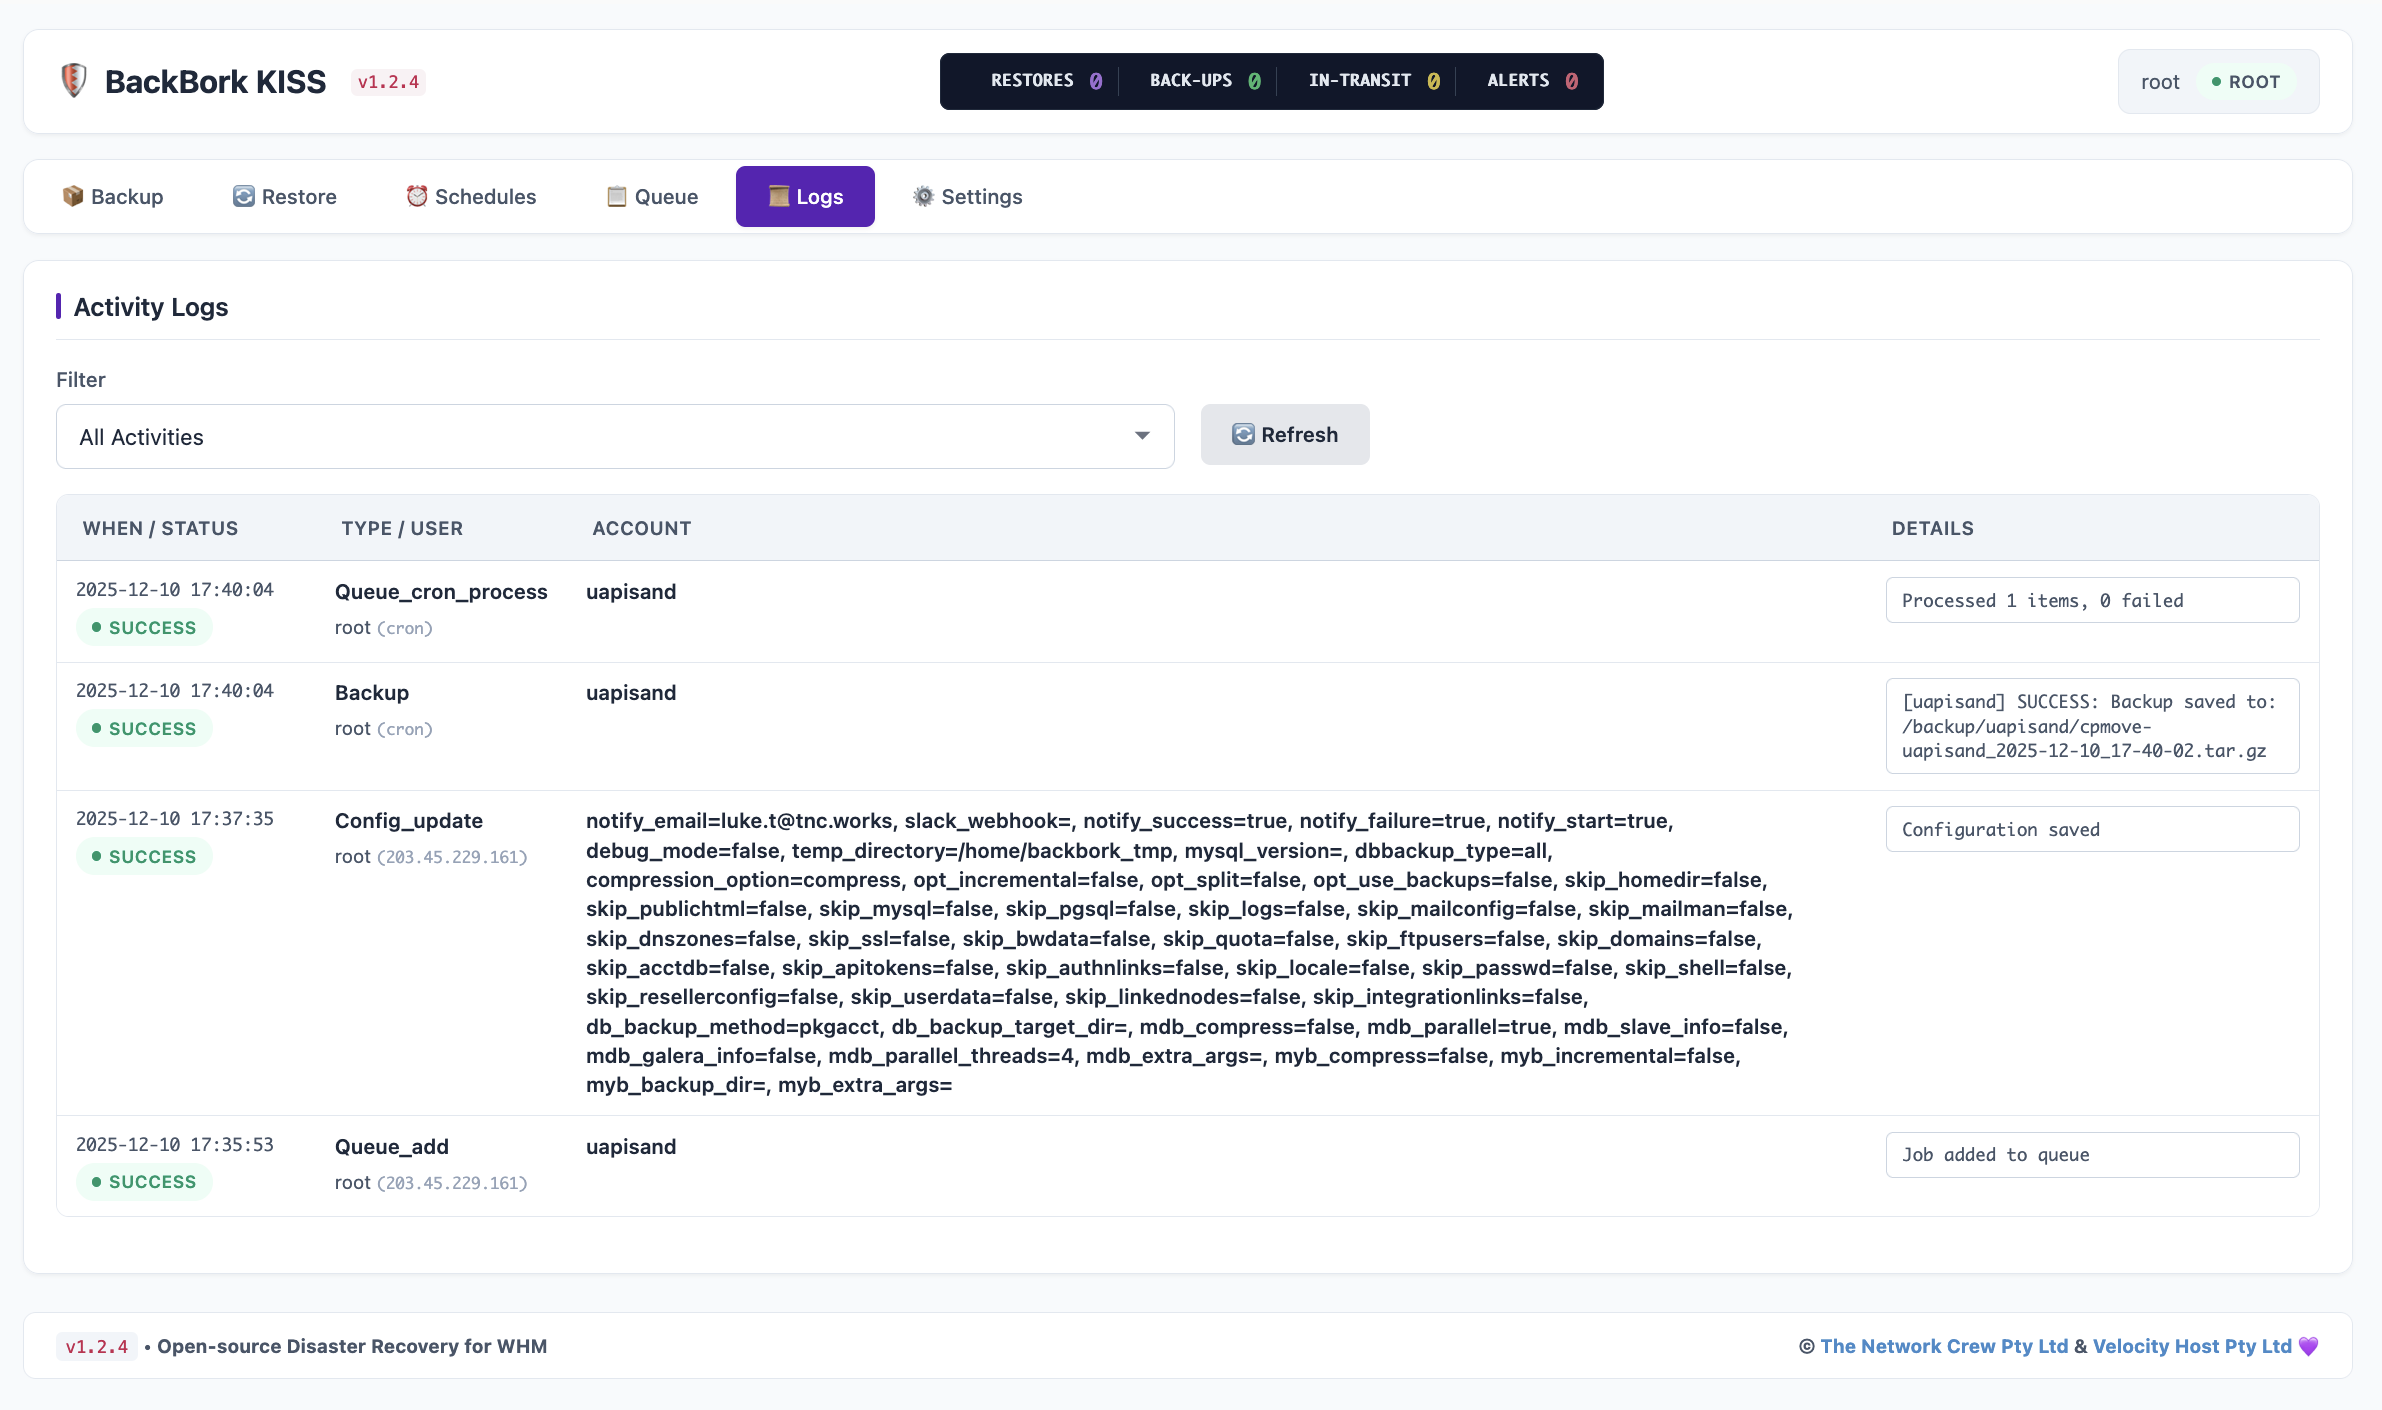
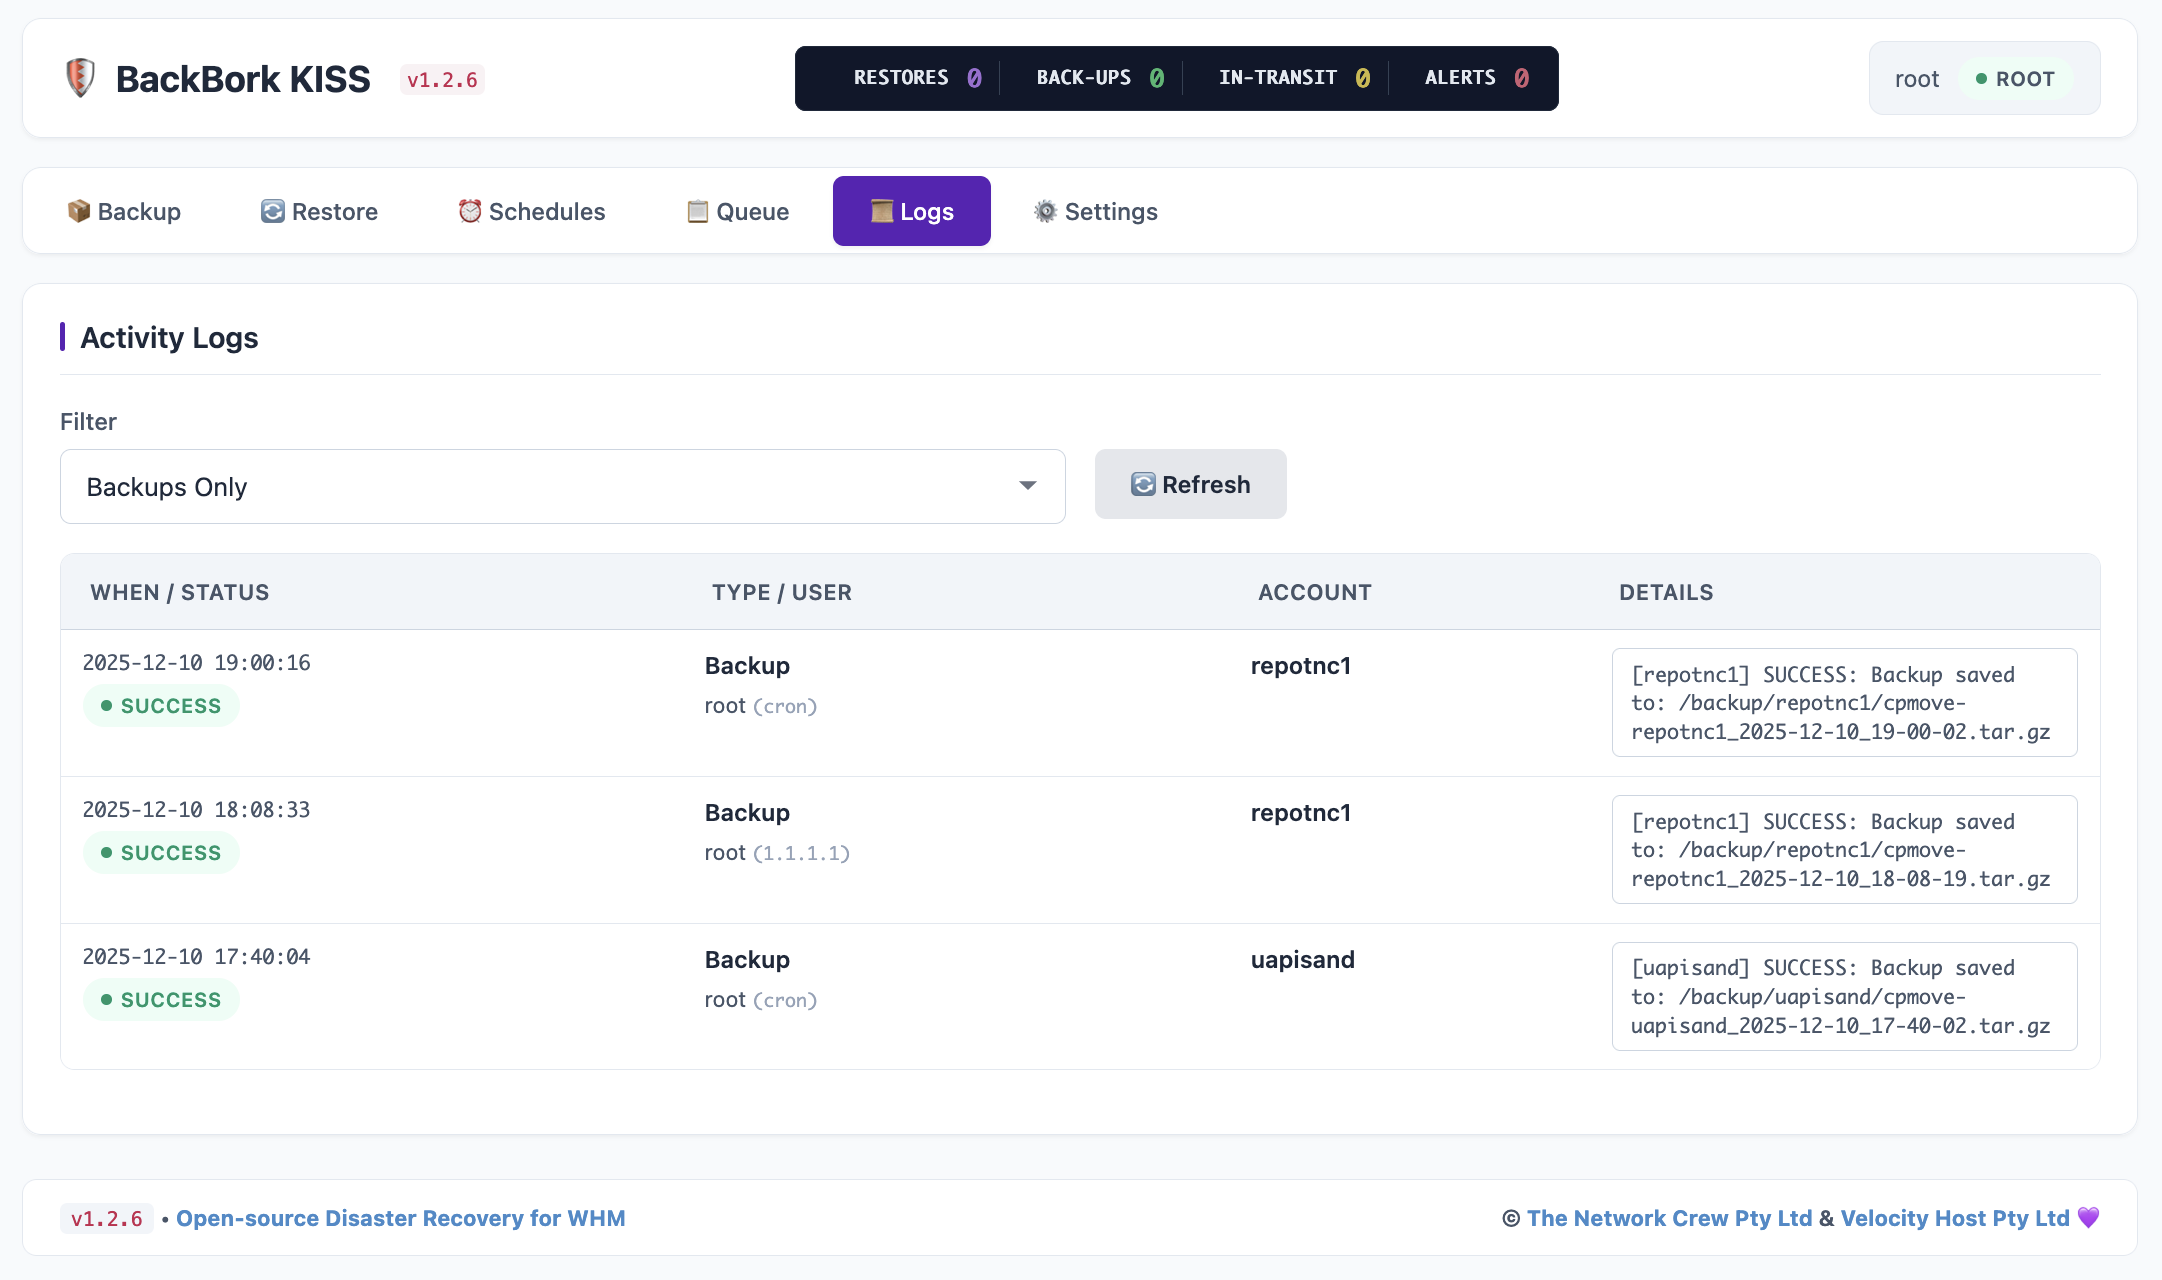
BackBork KISS v1.2.7-alpha
- filter backups by user access

diff --git a/usr/local/cpanel/whostmgr/docroot/cgi/backbork/engine/backup/BackupManager.php b/usr/local/cpanel/whostmgr/docroot/cgi/backbork/engine/backup/BackupManager.php
@@ -268,7 +268,7 @@ class BackBorkBackupManager {
      * Optionally filters by account name substring.
      * 
      * @param string $destinationId Destination ID from WHM transport config
-     * @param string $user User requesting (for permission checks)
+     * @param string $user User requesting (for permission filtering)
      * @param string $account Optional account filter (partial match)
      * @return array Result with success status and list of backup files
      */
@@ -288,6 +288,19 @@ class BackBorkBackupManager {
         // List all files at destination root
         $files = $transport->listFiles('', $destination);
 
+        // Security: Get list of accounts this user can access (for filtering)
+        $acl = BackBorkBootstrap::getACL();
+        $isRoot = $acl->isRoot();
+        $accessibleAccounts = [];
+        
+        // Non-root users can only see backups for accounts they own
+        if (!$isRoot) {
+            $accessible = $acl->getAccessibleAccounts();
+            foreach ($accessible as $acc) {
+                $accessibleAccounts[] = strtolower($acc['user']);
+            }
+        }
+
         // If account filter provided, filter files by partial match on filename
         if (!empty($account)) {
             $accountLower = mb_strtolower($account);
@@ -303,13 +316,30 @@ class BackBorkBackupManager {
         }
         
         // Format results for display with human-readable sizes
+        // Also filter by user access (resellers only see their accounts' backups)
         $backups = [];
         foreach ($files as $file) {
+            $filename = $file['file'] ?? '';
+            
+            // Extract account name from backup filename (cpmove-USERNAME_...)
+            $backupAccount = null;
+            if (preg_match('/cpmove-([a-z0-9_]+)/i', $filename, $matches)) {
+                $backupAccount = strtolower($matches[1]);
+            }
+            
+            // Security: Skip backups for accounts the user doesn't own (resellers only)
+            if (!$isRoot && $backupAccount !== null) {
+                if (!in_array($backupAccount, $accessibleAccounts)) {
+                    continue;  // Skip this backup - user doesn't own this account
+                }
+            }
+            
             $backups[] = [
-                'file' => $file['file'],
+                'file' => $filename,
                 'size' => $this->formatSize($file['size'] ?? 0),
                 'date' => $file['date'] ?? 'Unknown',
-                'location' => 'remote'
+                'location' => 'remote',
+                'account' => $backupAccount
             ];
         }
         

diff --git a/usr/local/cpanel/whostmgr/docroot/cgi/backbork/version.php b/usr/local/cpanel/whostmgr/docroot/cgi/backbork/version.php
@@ -11,4 +11,4 @@
  */
 
 // Plugin Version - follows semantic versioning (MAJOR.MINOR.PATCH)
-define('BACKBORK_VERSION', '1.2.6');
+define('BACKBORK_VERSION', '1.2.7');
